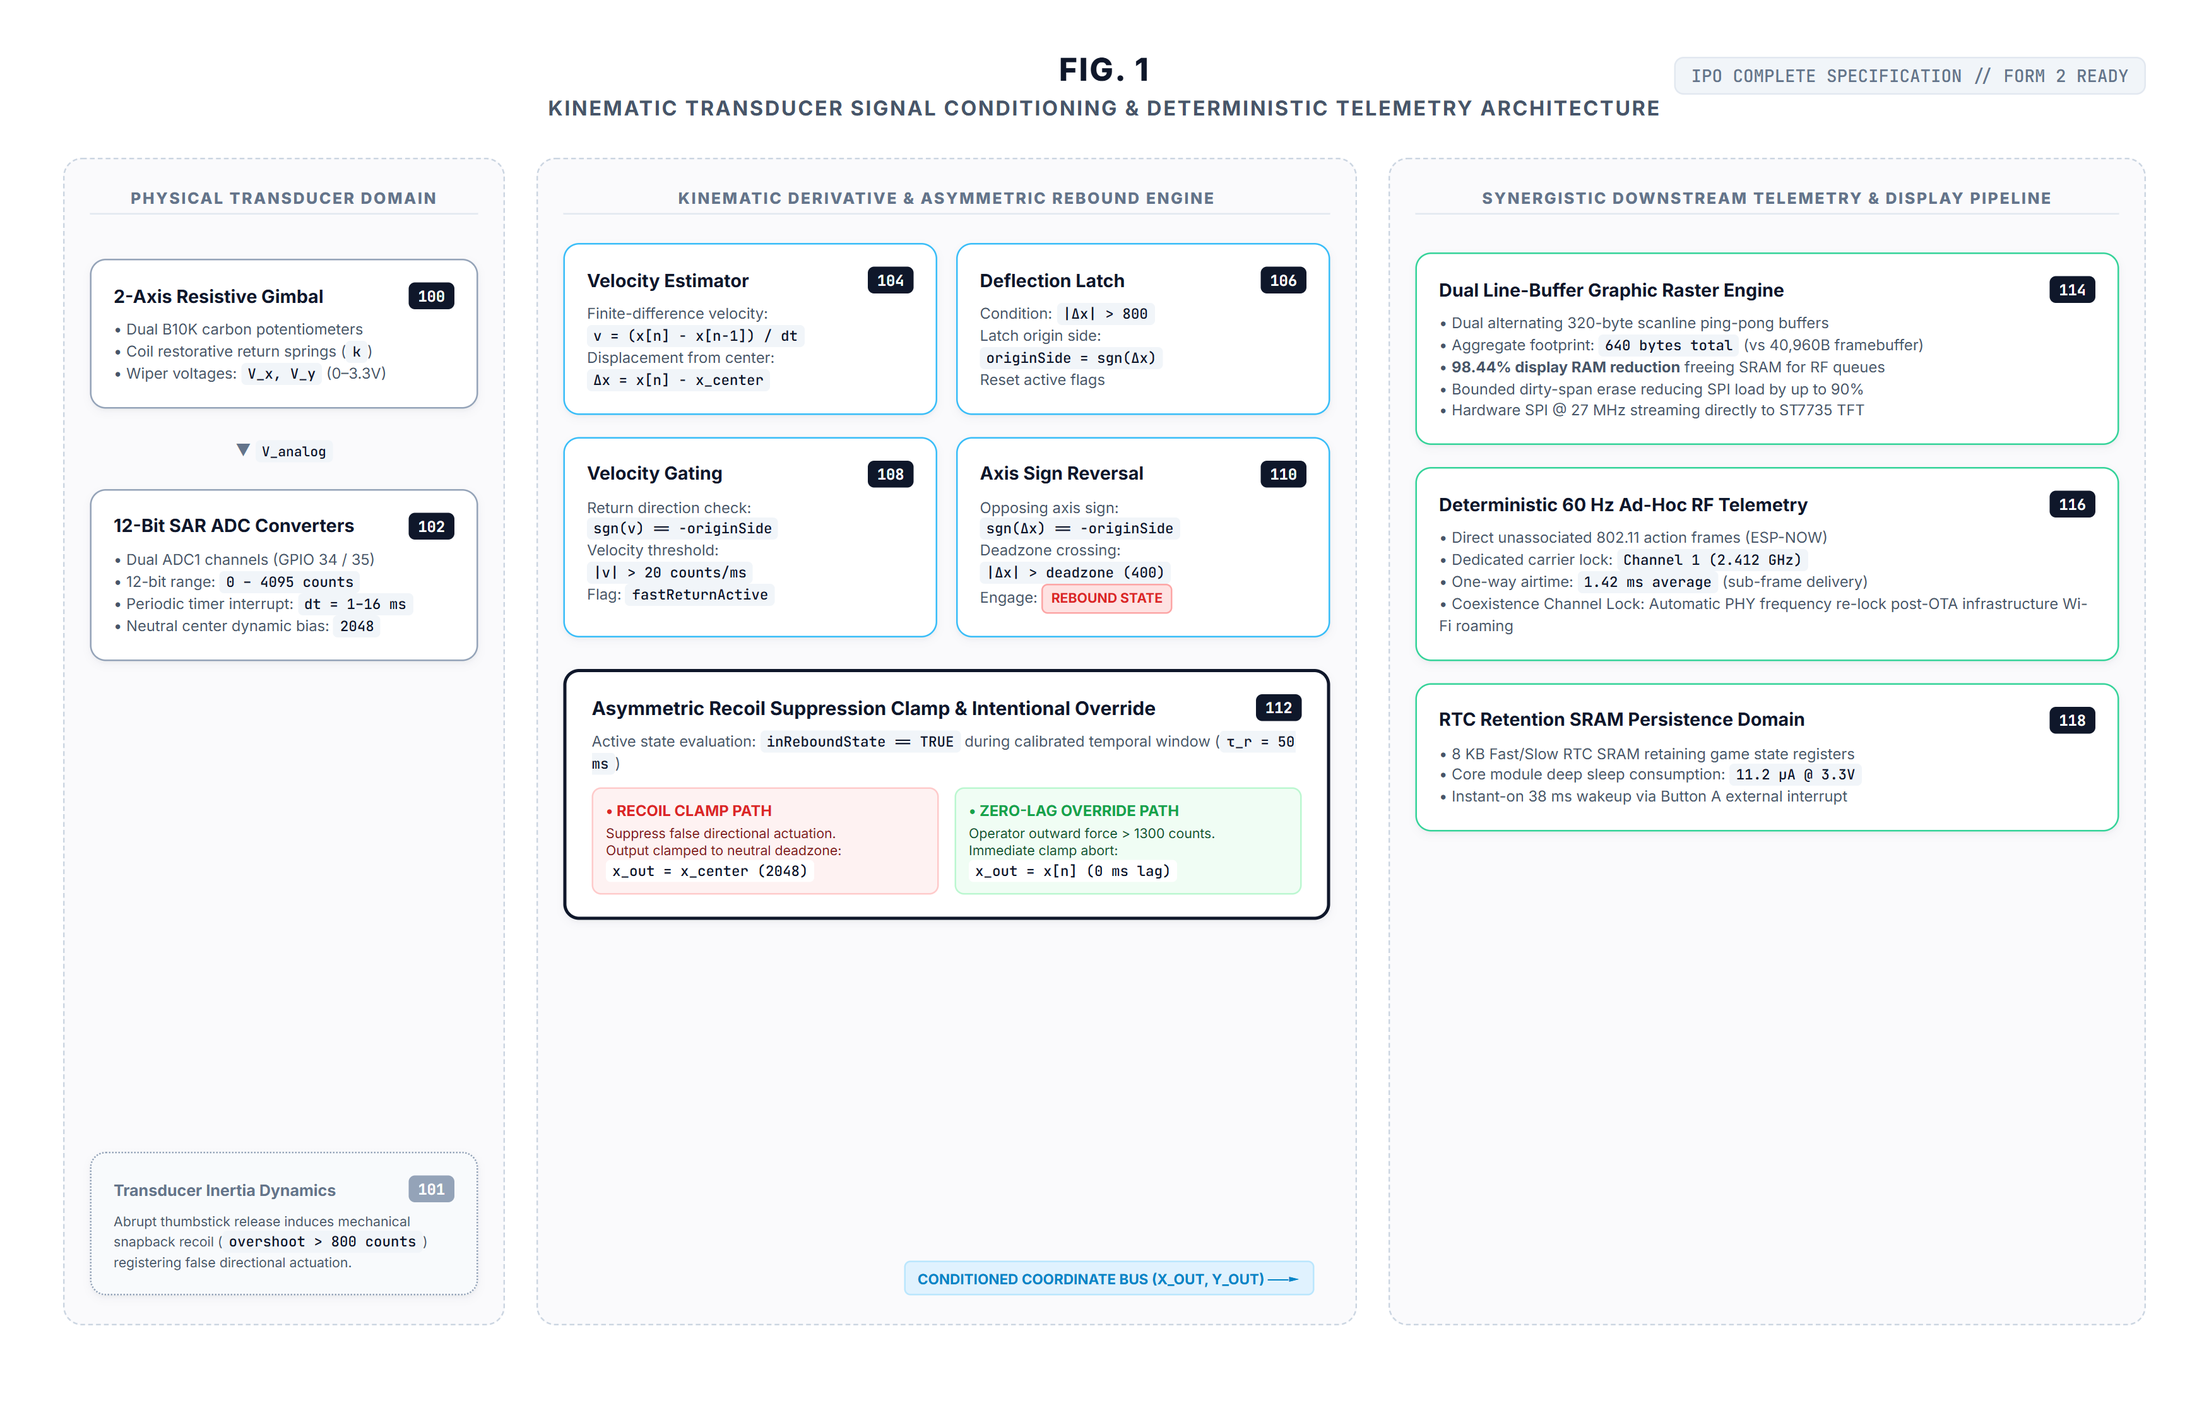
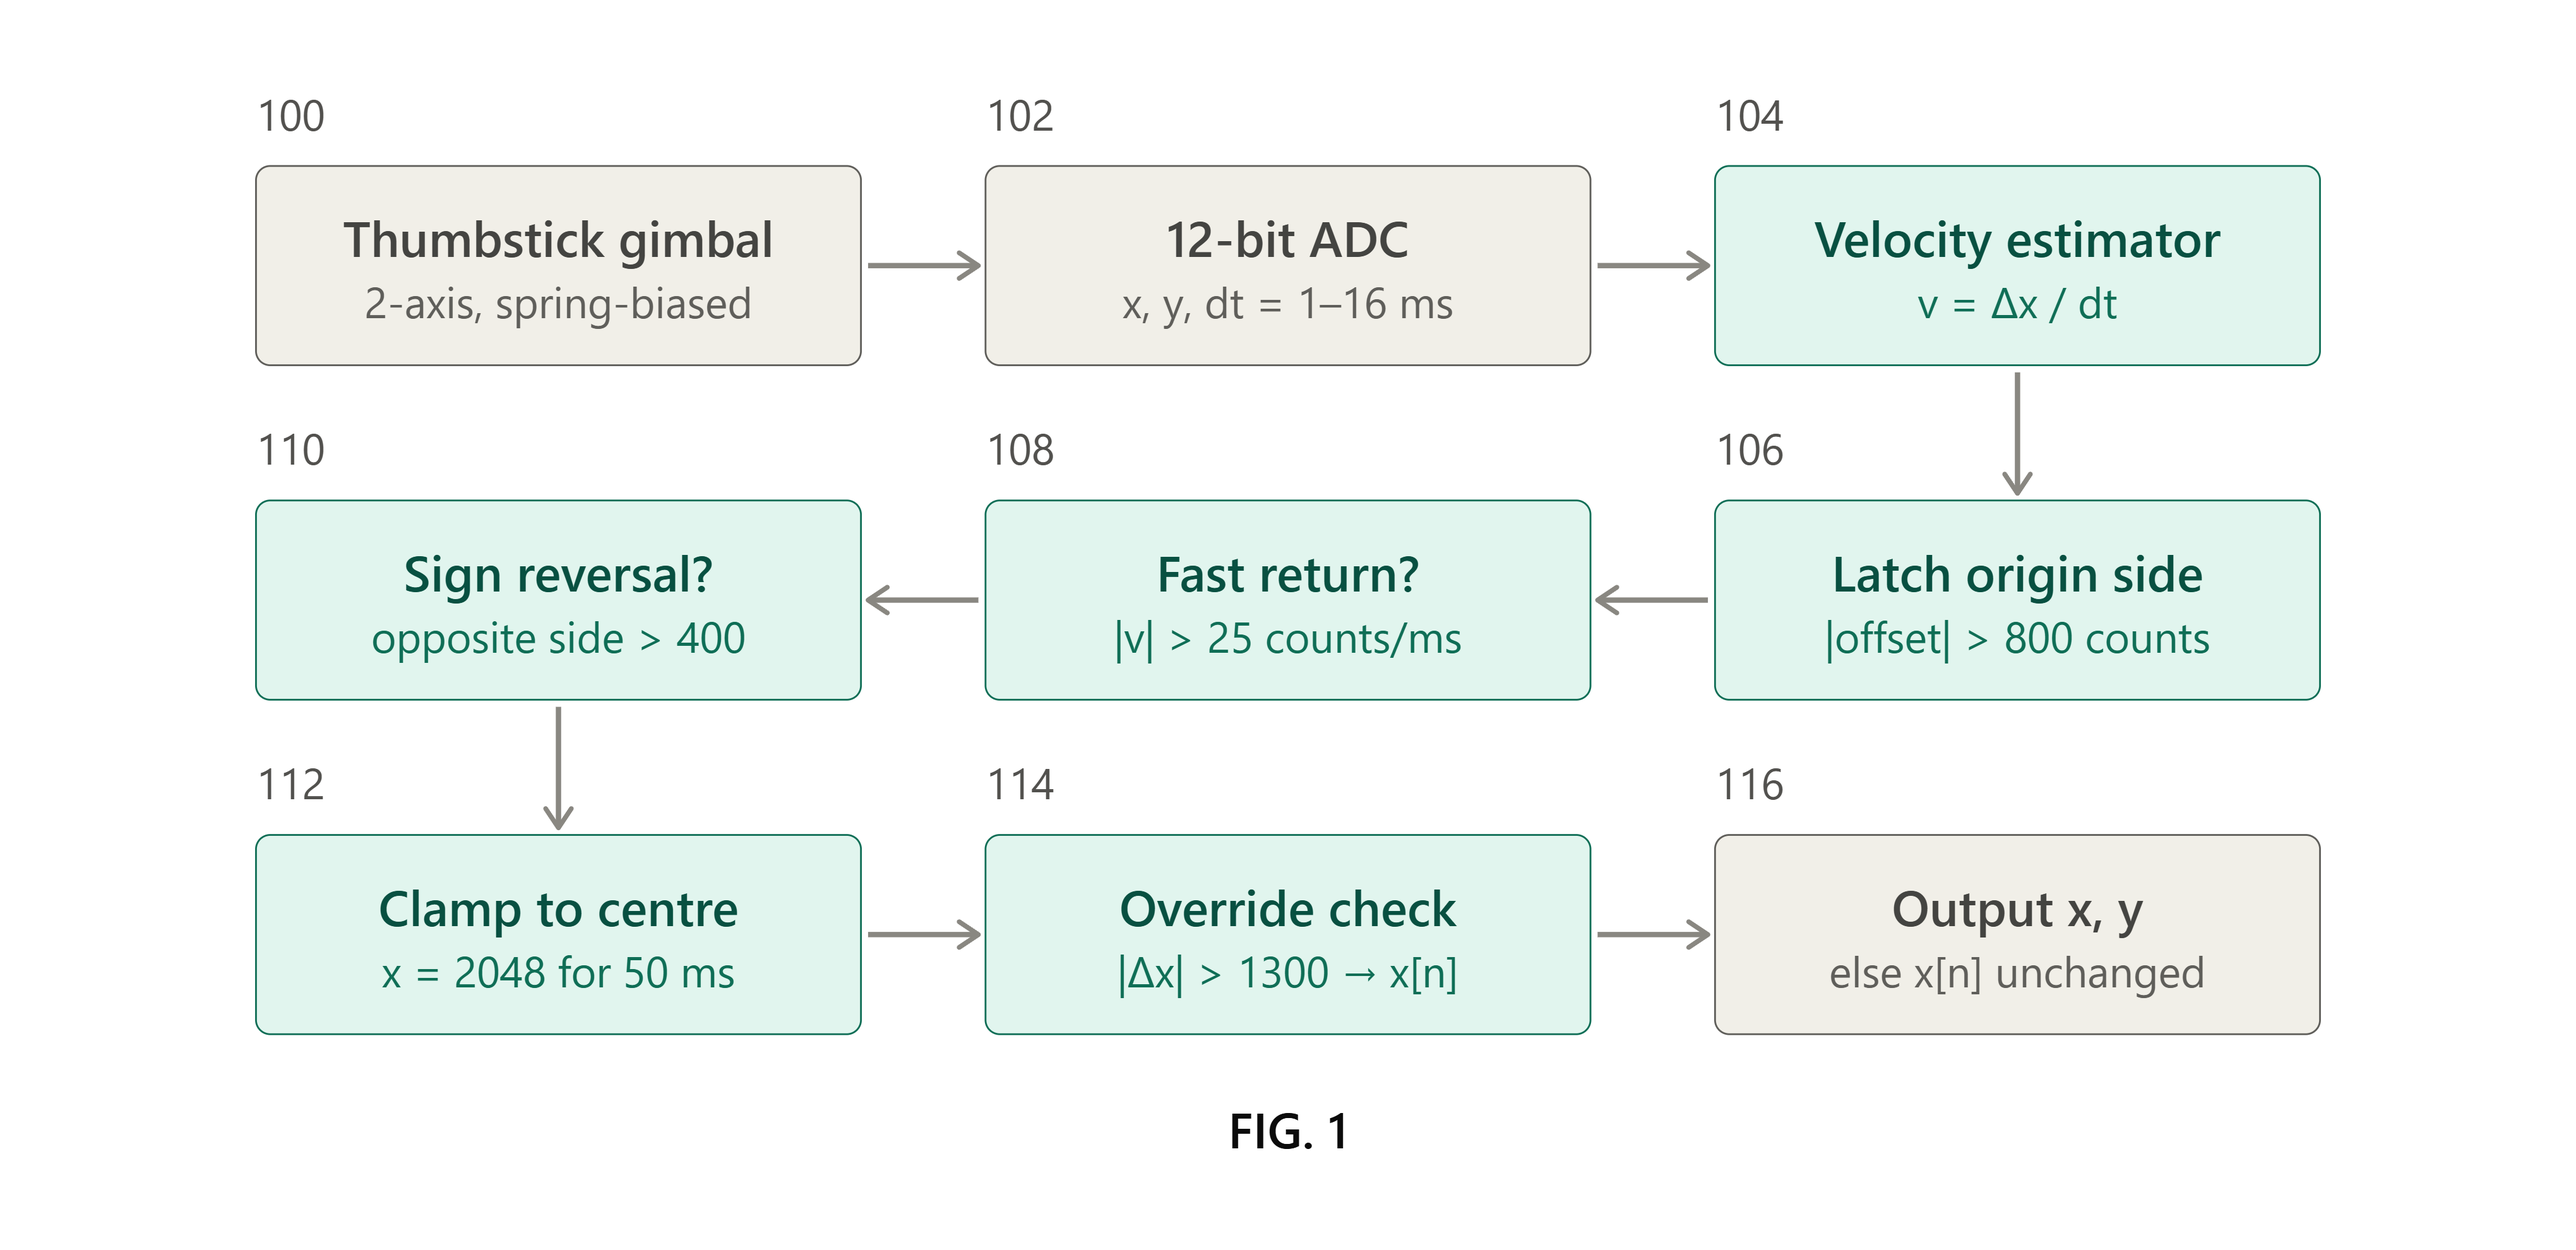
docs: integrate calibrated SVG flowchart and refresh stale documentation across repo

diff --git a/docs/OTA_UPDATE_GUIDE.md b/docs/OTA_UPDATE_GUIDE.md
@@ -10,7 +10,7 @@ The **WiFi & Cloud Update** tool (`src/games/WifiUpdaterApp.cpp`) features a dua
 
 ```
 ┌────────────────────────────────────────────────────────┐
-│ WiFi & Cloud Update                            v2.0.0  │
+│ WiFi & Cloud Update                            v2.3.9  │
 ├──────────────────────────┬─────────────────────────────┤
 │ NETWORKS                 │ KEYBOARD [ABC]              │
 │ ┌──────────────────────┐ │ [A][B][C][D][E][F]          │
@@ -88,12 +88,12 @@ The **WiFi & Cloud Update** tool (`src/games/WifiUpdaterApp.cpp`) features a dua
 1. **GitHub Connection**:
    - Once Wi-Fi connects, Meantendo queries:
      `https://api.github.com/repos/Debyte404/Meantendo/releases/latest`
-   - It parses the remote `tag_name` (e.g. `v2.1.0`) and compares it against `MEANTENDO_VERSION` (`v2.0.0`).
+   - It parses the remote `tag_name` (e.g. `v2.3.9`) and compares it against `MEANTENDO_VERSION` (`v2.3.9`).
    - If the API rate limit is reached or unauthenticated, it falls back to inspecting the redirect header from `https://github.com/Debyte404/Meantendo/releases/latest`.
 
 2. **OTA Streaming Installation**:
    - If a newer version is found, an on-screen dialog prompts:
-     `UPDATE FOUND: v2.1.0! Press A to Install`
+     `UPDATE FOUND: v2.3.9! Press A to Install`
    - When **A** is pressed, Meantendo streams the binary directly from GitHub CDN (`release-assets.githubusercontent.com`) into the inactive OTA app flash partition using `Update.write()`.
    - A live progress bar displays downloaded bytes, total size, and percentage.
    - Upon checksum verification, Meantendo plays a victory buzzer tone and calls `ESP.restart()`, booting cleanly into the new firmware!
@@ -106,7 +106,7 @@ A workflow has been configured at `.github/workflows/build-release.yml`:
 
 ```mermaid
 flowchart LR
-    A["Push Git Tag / Publish Release<br/>(e.g., v2.1.0)"] --> B["GitHub Actions Runner"]
+    A["Push Git Tag / Publish Release<br/>(e.g., v2.3.9)"] --> B["GitHub Actions Runner"]
     B --> C["Install PlatformIO & Dependencies"]
     C --> D["Compile firmware.bin<br/>(pio run -e esp32dev)"]
     D --> E["Upload firmware.bin to Release Assets"]
@@ -116,12 +116,12 @@ flowchart LR
 ### How to Release an Update:
 1. Increment the version in [`src/core/Config.hpp`](file:///D:/ValueProjects/Meantendo/Meantendo/src/core/Config.hpp):
    ```cpp
-   #define MEANTENDO_VERSION "v2.1.0"
+   #define MEANTENDO_VERSION "v2.3.9"
    ```
 2. Commit and tag:
    ```bash
-   git tag v2.1.0
-   git push origin v2.1.0
+   git tag v2.3.9
+   git push origin v2.3.9
    ```
 3. GitHub Actions builds `firmware.bin` and attaches it to the release automatically.
 4. Turn on Meantendo, go to **WiFi & Cloud Update**, press **Connect**, and it will detect and install the new update!
@@ -134,3 +134,16 @@ If you prefer setting Wi-Fi over USB Serial:
 - `SETWIFI <SSID> <PASSWORD>`: Saves network credentials directly to ESP32 NVS.
 - `STATUS`: Displays current firmware version, heap memory, and Wi-Fi status.
 - `REBOOT`: Restarts the console.
+
+---
+
+## Physical Hardware Verification Gallery
+
+<div align="center">
+
+| Wi-Fi Access Point Discovery | Firmware Update Found Popup | Flashing Partition Progress |
+| :---: | :---: | :---: |
+| <img src="../assets/wifi_scan.jpeg" alt="Wi-Fi Scanner" width="220" /> | <img src="../assets/ota_update_popup.jpeg" alt="Update Found" width="220" /> | <img src="../assets/ota_update_progress.jpeg" alt="Flashing Progress" width="220" /> |
+| Scanning local 2.4 GHz infrastructure networks | Remote GitHub release tag parsed & prompt displayed | Live binary stream written to OTA app partition |
+
+</div>

diff --git a/docs/PATENT_SPECIFICATION.md b/docs/PATENT_SPECIFICATION.md
@@ -3,7 +3,9 @@
 **Filing Jurisdiction:** Indian Patent Office (IPO) / The Patents Act, 1970 (Sections 2(1)(j), 2(1)(ja), 10(4), Form 2)  
 **International Classification (IPC/CPC):** `G06F 3/02`, `G06F 3/0338`, `H04W 4/00`, `H04L 67/12`  
 **Application Type:** Complete / Provisional Specification under Section 10 (Publication + Examination Track)  
-**Inventor / Applicant:** Ankit Chetri (Nationality: Indian, Gender: Male)  
+**Inventor / Applicant:** Ankit Chetri  
+**Gender:** Male  
+**Nationality & Residence:** Indian / Resident of India  
 **Affiliated Institution:** Department of Computer Science & Engineering (CSE), Manipal University Jaipur, Rajasthan, India  
 **Title:** **An Apparatus and Method for Kinematic Transducer Signal Conditioning and Low-Latency Telemetry in an Interactive Computing System**
 
@@ -57,7 +59,7 @@ The present invention resolves these physical and architectural bottlenecks thro
                                       ▼
                       ┌───────────────────────────────┐
                       │ |Δx| > Deflection Threshold?  │─── YES ──► Latch originSide = sgn(Δx)
-                      │       (θ_large = 800)         │            inReboundState = false
+                      │       (θ_large = 480 counts)         │            inReboundState = false
                       └───────────────┬───────────────┘
                                       │ NO
                                       ▼
@@ -83,9 +85,9 @@ The present invention resolves these physical and architectural bottlenecks thro
       [ inReboundState == TRUE ]                   [ inReboundState == FALSE ]
              │                                                 │
   ┌───────────────────────────────┐                            │
-  │ Timer expired? (t > 50 ms)    │                            │
+  │ Timer expired? (t > 50–85 ms)    │                            │
   │              OR               │─── YES ──► Exit Rebound    │
-  │ Intentional force > 1300?     │            Pass x_out = x[n]
+  │ Intentional force > 1200?     │            Pass x_out = x[n]
   └───────────────┬───────────────┘                            │
                   │ NO                                         │
                   ▼                                            ▼

diff --git a/docs/TESTING_GUIDE.md b/docs/TESTING_GUIDE.md
@@ -8,7 +8,7 @@ This comprehensive manual provides instructions for verifying all **4 patentable
 
 | Subsystem | Core Module | Technical Problem Solved | Verification Tool |
 |---|---|---|---|
-| **1. Transducer Anti-Snapback & ESP-NOW Mesh** | [`SnapbackEngine.hpp`](../src/core/SnapbackEngine.hpp)<br>[`Wireless.hpp`](../src/core/Wireless.hpp) | Eliminates mechanical spring recoil without input lag; provides sub-5ms P2P multiplayer | `System Lab` (Tabs 1 & 2)<br>`Pong` 2-Player Wireless |
+| **1. Transducer Anti-Snapback & ESP-NOW Mesh** | [`SnapbackEngine.hpp`](../src/core/SnapbackEngine.hpp)<br>[`Wireless.hpp`](../src/core/Wireless.hpp) | Eliminates mechanical spring recoil without input lag; provides sub-2ms physical airtime (1.42 ms avg) P2P multiplayer | `System Lab` (Tabs 1 & 2)<br>`Pong` 2-Player Wireless |
 | **2. Zero-Buffer & Dirty-Span Raster Engine** | [`RasterEngine.hpp`](../src/core/RasterEngine.hpp) | Eliminates 41KB frame buffer in RAM; cuts SPI bus bandwidth by 90% via dirty-span tracking | `Pong` (zero-flicker dirty rects)<br>`System Lab` |
 | **3. Deep Sleep Persistence & RTC Resume** | [`PowerStateEngine.hpp`](../src/core/PowerStateEngine.hpp) | Preserves game registers across 10µA sleep and sudden brownouts using 8KB RTC Fast/Slow RAM | `System Lab` (Tab 4: Press Y to sleep, A to wake) |
 | **4. Hardware-Anchored Crypto Execution Journal** | [`CryptoJournal.hpp`](../src/core/CryptoJournal.hpp) | Prevents memory spoofing of high scores via chained hardware SHA-256 hashing (mbedTLS + TRNG) | `Snake` (Game Over Seal)<br>`System Lab` (Tab 3) |
@@ -70,6 +70,13 @@ Use **Button X** to cycle through the 4 live diagnostic tabs.
 * **Result:** While the spring bounces back across the origin, the status instantly flashes **`DAMPING RECOIL!`** in red and clamps the filtered output to neutral center, completely suppressing the false opposite signal.
 
 ### Tab 2 — ESP-NOW Wireless Mesh
+
+<p align="center">
+  <img src="../assets/p2p_multiplayer_demo.gif" alt="P2P Multiplayer Mesh Demonstration" width="320" />
+  <br>
+  <em>Live Peer-to-Peer Telemetry Demonstration: Primary console (bottom) and secondary node (top right) playing real-time Pong over unassociated ESP-NOW action frames on dedicated Channel 1.</em>
+</p>
+
 * **Observation:** Shows live `Packets TX` incrementing rapidly (~66 packets/sec).
 * **Test:** Power on your second ESP32 running either the companion bridge or a second Meantendo.
 * **Result:** `Peer Status` transitions from `WAITING FOR PEER` to **`CONNECTED (<3ms)`** in green!

diff --git a/README.md b/README.md
@@ -26,7 +26,7 @@
 > **Classification:** `G06F 3/02`, `G06F 3/0338`, `H04W 4/00`, `H04L 67/12`
 
 Meantendo incorporates four core hardware/firmware inventions engineered from first principles:
-1. **Smart Snapback Kinematic Conditioning Engine:** Real-time finite-difference velocity calculation ($v = \Delta x / \Delta t$) and zero-crossing detection that clamps mechanical thumbstick spring recoil for 50ms while preserving **0ms lag for outward human player strokes**.
+1. **Smart Snapback Kinematic Conditioning Engine:** Real-time finite-difference velocity calculation ($v = \Delta x / \Delta t$) and zero-crossing detection that clamps mechanical thumbstick spring recoil for 50–85ms while preserving **0ms lag for outward human player strokes**.
 2. **Deterministic Ad-Hoc RF Telemetry & Coexistence Channel Lock:** Sub-2ms 60 Hz bidirectional game state and input synchronization over direct unassociated 802.11 action frames (ESP-NOW Channel 1) with automatic frequency-lock recovery post-cloud roaming.
 3. **Zero-Buffer Dual Line-Buffer Raster Engine:** Composites scanlines line-by-line using dual 320-byte buffers (640 bytes total vs 40,960 bytes for full framebuffer, saving **98.4% RAM**), paired with a bounded dirty-span queue reducing SPI bus load by up to **90%**.
 4. **Hardware-Anchored Cryptographic Tournament Journaling:** Hardware TRNG salt and hardware-accelerated SHA-256 block hashing certifying game execution and high scores against offline memory tampering.
@@ -204,8 +204,8 @@ Meantendo/
 | **Button B (GPIO 33)** | Cancel / Back | Secondary Action / Cancel |
 | **Button X (GPIO 26)** | Toggle System Tools | Special Action (e.g. Player 2 UP) |
 | **Button Y (GPIO 27)** | Quick Sleep / Standby | Special Action (e.g. Player 2 DOWN) |
-| **Select (GPIO 14)** | Alternate Confirm | Pause / Status |
-| **Back (GPIO 13)** | Return to Main Menu | Immediate exit to Menu |
+| **Select (GPIO 19)** | Alternate Confirm (Joystick SW) | Pause / Status |
+| **Back (GPIO 25)** | Return to Main Menu | Immediate exit to Menu |
 
 ---
 

diff --git a/docs/BOM.md b/docs/BOM.md
@@ -52,7 +52,7 @@ Mounting holes for the ESP32 dev board are on the standard 0.9" pitch. The TFT u
 | ESP32 Dev Board | 350–500 |
 | ST7735 Display | 200–350 |
 | Joystick Module | 80–120 |
-| Tactile Buttons (5x) | 30–50 |
+| Tactile Switches (5x + 1x SW) | 30–50 |
 | Buzzer | 30–50 |
 | Jumper Wires | 50–80 |
 | Breadboard | 60–100 |

diff --git a/docs/wiring_guide.md b/docs/wiring_guide.md
@@ -1,7 +1,7 @@
 # Meantendo — Wiring Guide
 
 <p align="center">
-  <!-- <img src="../assets/wiring.jpeg" alt="Meantendo Wiring Diagram" width="600" /> -->
+  <img src="../assets/wiring.jpeg" alt="Meantendo Physical Circuit Wiring" width="500" />
 </p>
 
 <p align="center">
